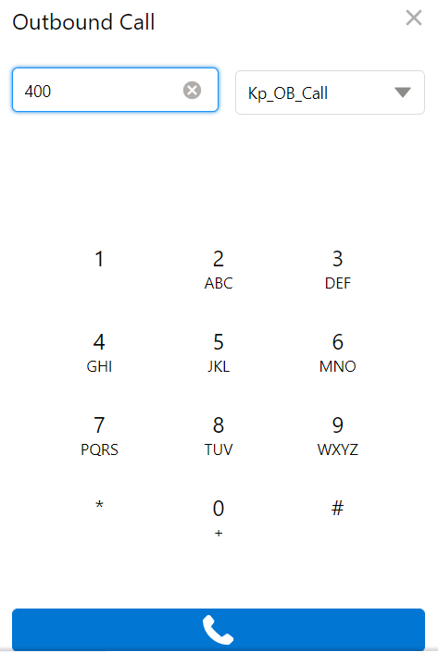
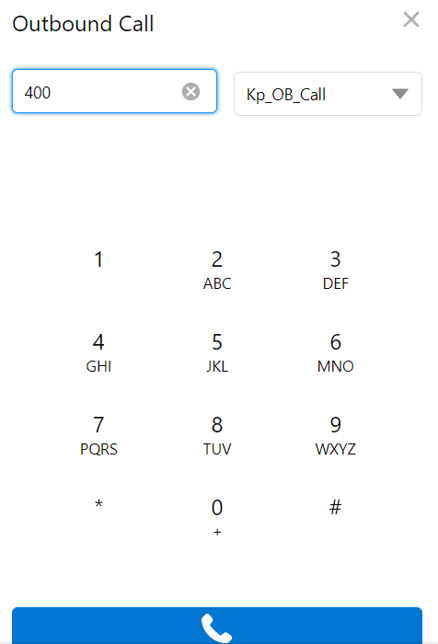
demo flow alignment

diff --git a/src/DemoComp1.js b/src/DemoComp1.js
@@ -56,35 +56,45 @@ function DemoComp1() {
                 </div> :
                 step === 2 ?
                     <div style={{ display: "grid" }}>
-                        <img alt="loading" width="300px" src={AgentStatusImg}></img>
-                        <img alt="loading" className="side-menu" src={SideMenuImg}></img>
+                        <img alt="loading" width="336px" src={AgentStatusImg}></img>
+                        <div>
+                        <img alt="loading" height="500px" src={SideMenuImg}></img>
                         <img alt="loading"
                             onClick={() => setStep(3)}
                             height="500px"
                             width="300px"
                             src={require('./assets/dialpad/OBCall1.png')}></img>
+                        </div>
                     </div> :
                     step === 3 ?
                         <div style={{ display: "grid" }}>
-                            <img alt="loading" width="300px" src={AgentStatusImg}></img>
+                            <img alt="loading" width="336px" src={AgentStatusImg}></img>
+                            <div>
+                            <img alt="loading" height="500px" src={SideMenuImg}></img>
                             <img alt="loading"
                                 onClick={() => setStep(4)}
                                 height="500px"
                                 width="300px"
                                 src={require('./assets/dialpad/OBCall2.png')}></img>
+                            </div>
                         </div> :
                         step === 4 ?
                             <div style={{ display: "grid" }}>
-                                <img alt="loading" width="300px" src={AgentStatusImg}></img>
+                                <img alt="loading" width="336px" src={AgentStatusImg}></img>
+                                <div>
+                                <img alt="loading" height="500px" src={SideMenuImg}></img>
                                 <img alt="loading"
                                     onClick={() => setStep(5)}
                                     height="500px"
                                     width="300px"
                                     src={require('./assets/dialpad/OBCall3.png')}></img>
+                                </div>
                             </div> :
                             step === 5 ?
                                 <div style={{ display: "grid" }}>
-                                    <img alt="loading" width="300px" src={AgentStatusImg}></img>
+                                    <img alt="loading" width="336px" src={AgentStatusImg}></img>
+                                    <div>
+                                    <img alt="loading" height="500px" src={SideMenuImg}></img>
                                     <img alt="loading"
                                         onClick={() => {
                                             setSHLoad(true);
@@ -93,11 +103,14 @@ function DemoComp1() {
                                         height="500px"
                                         width="300px"
                                         src={require('./assets/dialpad/OBCall4.png')}></img>
+                                    </div>
                                 </div> :
 
                                 step === 6 ?
                                     <div style={{ display: "grid" }} >
-                                        <img alt="loading" width="300px" src={AgentStatusImg}></img>
+                                        <img alt="loading" width="336px" src={AgentStatusImg}></img>
+                                        <div>
+                                        <img alt="loading" height="500px" src={SideMenuImg}></img>
                                         <img alt="loading"
                                             onClick={() => {
                                                 setSHLoad(true);
@@ -106,10 +119,13 @@ function DemoComp1() {
                                             height="500px"
                                             width="300px"
                                             src={require('./assets/dialpad/OBCall5.png')}></img>
+                                        </div>
                                     </div> :
                                     step === 8 ?
                                         <div style={{ display: "grid" }} >
-                                            <img alt="loading" width="300px" src={AgentStatusImg}></img>
+                                            <img alt="loading" width="336px" src={AgentStatusImg}></img>
+                                            <div>
+                                            <img alt="loading" height="500px" src={SideMenuImg}></img>
                                             <img alt="loading"
                                                 onClick={() => {
                                                     setSHLoad(true);
@@ -118,6 +134,7 @@ function DemoComp1() {
                                                 height="500px"
                                                 width="300px"
                                                 src={AgentDispImg}></img>
+                                            </div>
                                         </div> :
                                         ""
 

diff --git a/src/Login.js b/src/Login.js
@@ -1,7 +1,7 @@
 import React, { useState } from "react";
 import "./App.css";
 import InContactImg from '../src/assets/login/inContact.PNG';
-import CxOneImg from '../src/assets/login/CxOne.PNG';
+import CxOneImg from '../src/assets/login/CxOne.png';
 
 function Login(props) {
     const [token, setToken] = useState('');
